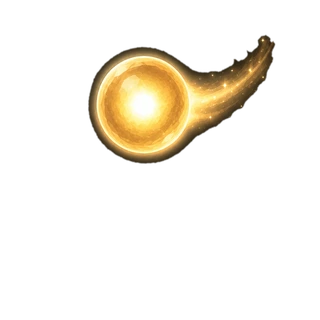
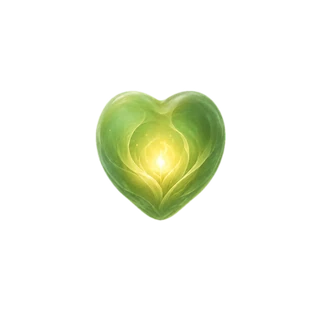
Add evolving heart-light player sprite system (8 stages)
Player now displays as a spiritual heart-light (Hartlig) that grows
more beautiful with each milestone level:

- Stage 0  (L1):   Vonkie — simple green heart, tiny inner flame
- Stage 1  (L5):   Hartsaad — stronger inner light
- Stage 2  (L10):  Spruit van vrede — flames rising above heart
- Stage 3  (L15):  Lewende hartlig — leaf wings spreading out
- Stage 4  (L20):  Vredeblom — lotus flower pattern inside
- Stage 5  (L35):  Genadelig — intricate leaf patterns
- Stage 6  (L50):  Herstelde siel — golden halo ring
- Stage 7  (L80):  Volle vrede — full botanical glory

Each sprite (p0-p7.webp, 320×320) has white background removed via
corner flood-fill, 4-iter dilation and Gaussian feather. A bright
white pulsing glow ring surrounds the sprite during gameplay.
Fallback to the original colored circle while sprites load.

Claude-Session: https://claude.ai/code/session_01S2gekPUJooPMvPKjFjtUcr

Changed region(s): [[0.25, 0.0938, 0.875, 0.6875]]

diff --git a/src/screens/Vredepad.jsx b/src/screens/Vredepad.jsx
@@ -33,6 +33,13 @@ const weedImages = Array.from({ length: 2 }, (_, i) => {
   return img
 })
 
+// 8 heart-light player stages (p0–p7.webp, transparent bg)
+const playerImages = Array.from({ length: 8 }, (_, i) => {
+  const img = new Image()
+  img.src = `/player/p${i}.webp?v=1`
+  return img
+})
+
 
 const MILESTONE_BOOKS = [
   { id: 'wanneer-angs-toeslaan', emoji: '🌅', title: 'Wanneer Angs Toeslaan', level: 7   },
@@ -372,36 +379,62 @@ function drawWeed(ctx, x, y, pulse, t, weedType) {
   }
 }
 
-function drawPlayer(ctx, p, tick, t) {
+function getPlayerStage(level) {
+  if (level >= 80) return 7
+  if (level >= 50) return 6
+  if (level >= 35) return 5
+  if (level >= 20) return 4
+  if (level >= 15) return 3
+  if (level >= 10) return 2
+  if (level >= 5)  return 1
+  return 0
+}
+
+function drawPlayer(ctx, p, tick, t, level) {
   const { x, y } = p
   const hitFrac = p.hitAnim || 0
   const r = 13 * (1 - hitFrac * 0.22)
+  const stage = getPlayerStage(level || 1)
+  const img = playerImages[stage]
+  const spriteR = 30
+  const pulse = Math.sin(tick * 0.05) * 2.5
 
-  // Soft trail
+  // Soft green trail
   for (let i = 0; i < p.trail.length; i++) {
     const tr = p.trail[i]
     const frac = (i + 1) / p.trail.length
-    ctx.beginPath(); ctx.arc(tr.x, tr.y, r * 0.55 * frac, 0, Math.PI * 2)
-    ctx.fillStyle = t.player; ctx.globalAlpha = 0.09 * frac; ctx.fill(); ctx.globalAlpha = 1
+    ctx.beginPath(); ctx.arc(tr.x, tr.y, r * 0.5 * frac, 0, Math.PI * 2)
+    ctx.fillStyle = 'rgba(160,255,140,1)'; ctx.globalAlpha = 0.08 * frac; ctx.fill(); ctx.globalAlpha = 1
   }
 
-  // Warm golden glow
-  const pulse = Math.sin(tick * 0.05) * 3
-  const gw = ctx.createRadialGradient(x, y, 0, x, y, r * 2.8 + pulse)
-  gw.addColorStop(0, t.playerWarm)
-  gw.addColorStop(0.45, t.playerGlow)
-  gw.addColorStop(1, 'rgba(0,0,0,0)')
-  ctx.beginPath(); ctx.arc(x, y, r * 2.8 + pulse, 0, Math.PI * 2)
-  ctx.fillStyle = gw; ctx.globalAlpha = 0.72; ctx.fill(); ctx.globalAlpha = 1
+  // Bright white outer glow
+  const glowR = spriteR * 1.55 + pulse
+  const glow = ctx.createRadialGradient(x, y, spriteR * 0.4, x, y, glowR)
+  glow.addColorStop(0,    'rgba(255,255,255,0.65)')
+  glow.addColorStop(0.38, 'rgba(220,255,200,0.28)')
+  glow.addColorStop(1,    'rgba(255,255,255,0)')
+  ctx.beginPath(); ctx.arc(x, y, glowR, 0, Math.PI * 2)
+  ctx.fillStyle = glow; ctx.globalAlpha = 0.88; ctx.fill(); ctx.globalAlpha = 1
 
-  // Main dot
-  ctx.beginPath(); ctx.arc(x, y, r, 0, Math.PI * 2); ctx.fillStyle = t.player; ctx.fill()
+  // Heart sprite
+  if (img && img.complete && img.naturalWidth > 0) {
+    ctx.globalAlpha = hitFrac > 0 ? 0.68 : 0.97
+    ctx.drawImage(img, x - spriteR, y - spriteR, spriteR * 2, spriteR * 2)
+    ctx.globalAlpha = 1
+  } else {
+    // Fallback circle while sprite loads
+    const gw = ctx.createRadialGradient(x, y, 0, x, y, r * 2.8 + pulse)
+    gw.addColorStop(0, t.playerWarm); gw.addColorStop(0.45, t.playerGlow); gw.addColorStop(1, 'rgba(0,0,0,0)')
+    ctx.beginPath(); ctx.arc(x, y, r * 2.8 + pulse, 0, Math.PI * 2)
+    ctx.fillStyle = gw; ctx.globalAlpha = 0.72; ctx.fill(); ctx.globalAlpha = 1
+    ctx.beginPath(); ctx.arc(x, y, r, 0, Math.PI * 2); ctx.fillStyle = t.player; ctx.fill()
+  }
+
+  // Red flash on hit
   if (hitFrac > 0) {
-    ctx.beginPath(); ctx.arc(x, y, r * 1.5, 0, Math.PI * 2)
-    ctx.fillStyle = `rgba(120,20,60,${hitFrac * 0.28})`; ctx.fill()
+    ctx.beginPath(); ctx.arc(x, y, spriteR * 0.75, 0, Math.PI * 2)
+    ctx.fillStyle = `rgba(180,20,60,${hitFrac * 0.32})`; ctx.fill()
   }
-  ctx.beginPath(); ctx.arc(x - r * 0.3, y - r * 0.33, r * 0.32, 0, Math.PI * 2)
-  ctx.fillStyle = 'rgba(255,255,255,0.55)'; ctx.fill()
 }
 
 function drawFloats(ctx, floats) {
@@ -1363,7 +1396,7 @@ export default function Vredepad({ onClose }) {
         for (const s of g.seeds) drawSeed(ctx, s.x, s.y, s.pulse, g.t, lvlTier)
         if (g.promiseSeed) drawPromiseSeed(ctx, g.promiseSeed.x, g.promiseSeed.y, g.promiseSeed.pulse, g.promiseSeed.plant)
         for (const w of g.weeds) drawWeed(ctx, w.x, w.y, w.pulse, g.t, w.type)
-        drawPlayer(ctx, p, g.tick, g.t)
+        drawPlayer(ctx, p, g.tick, g.t, g.level)
         if (g.genadeActive > 0) {
           const gFrac = Math.min(g.genadeActive / 300, 1)
           const gr = ctx.createRadialGradient(p.x, p.y, 0, p.x, p.y, 55)
